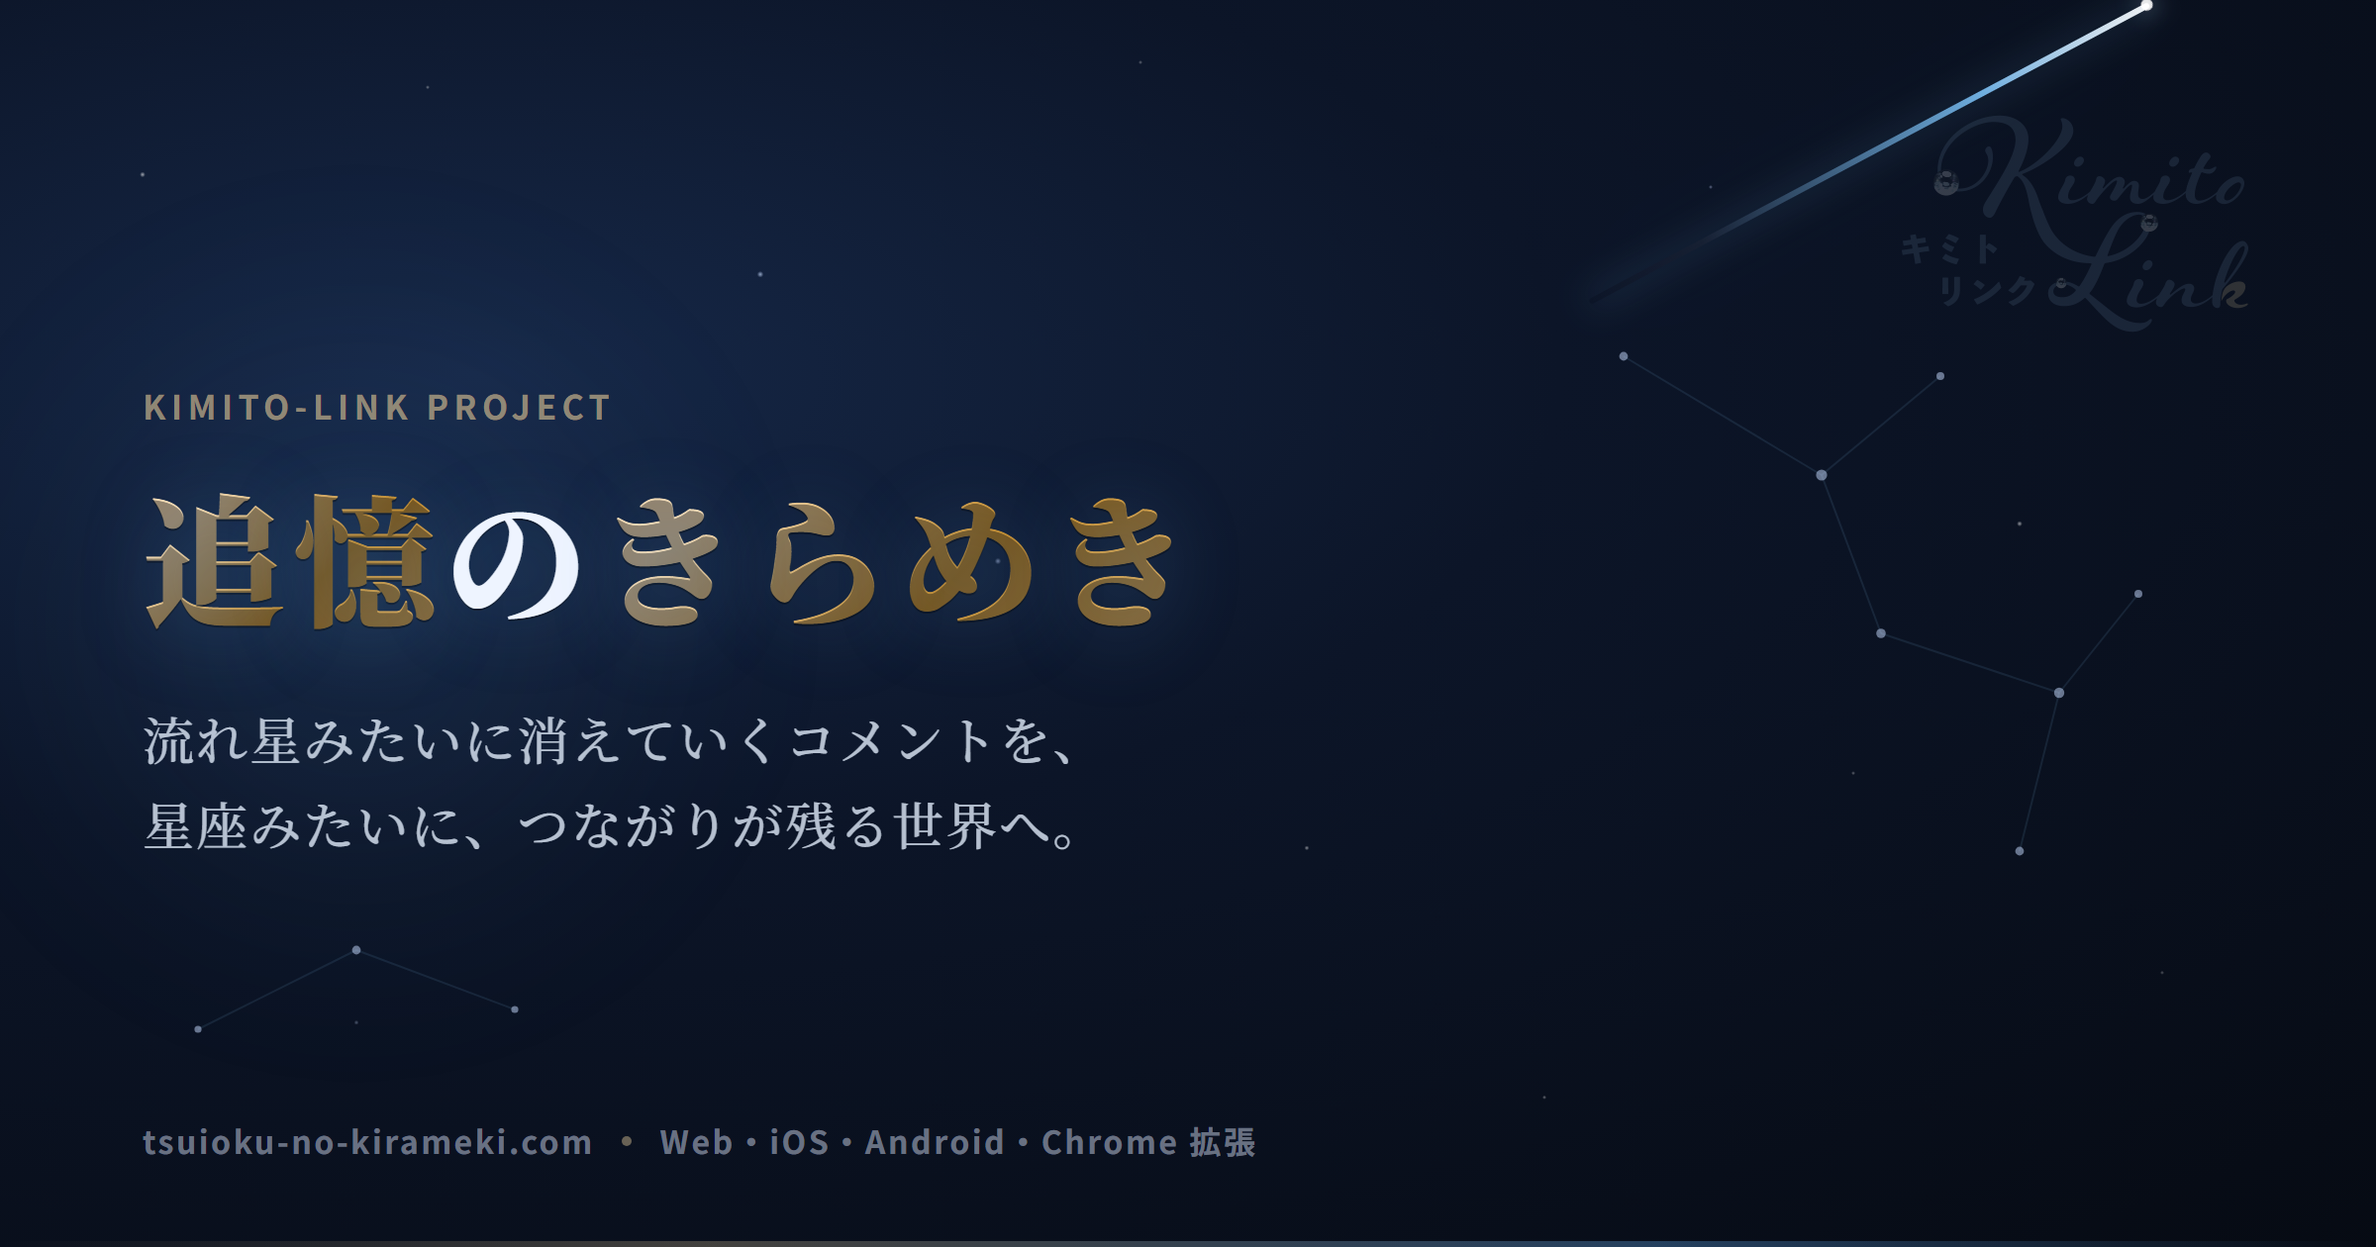
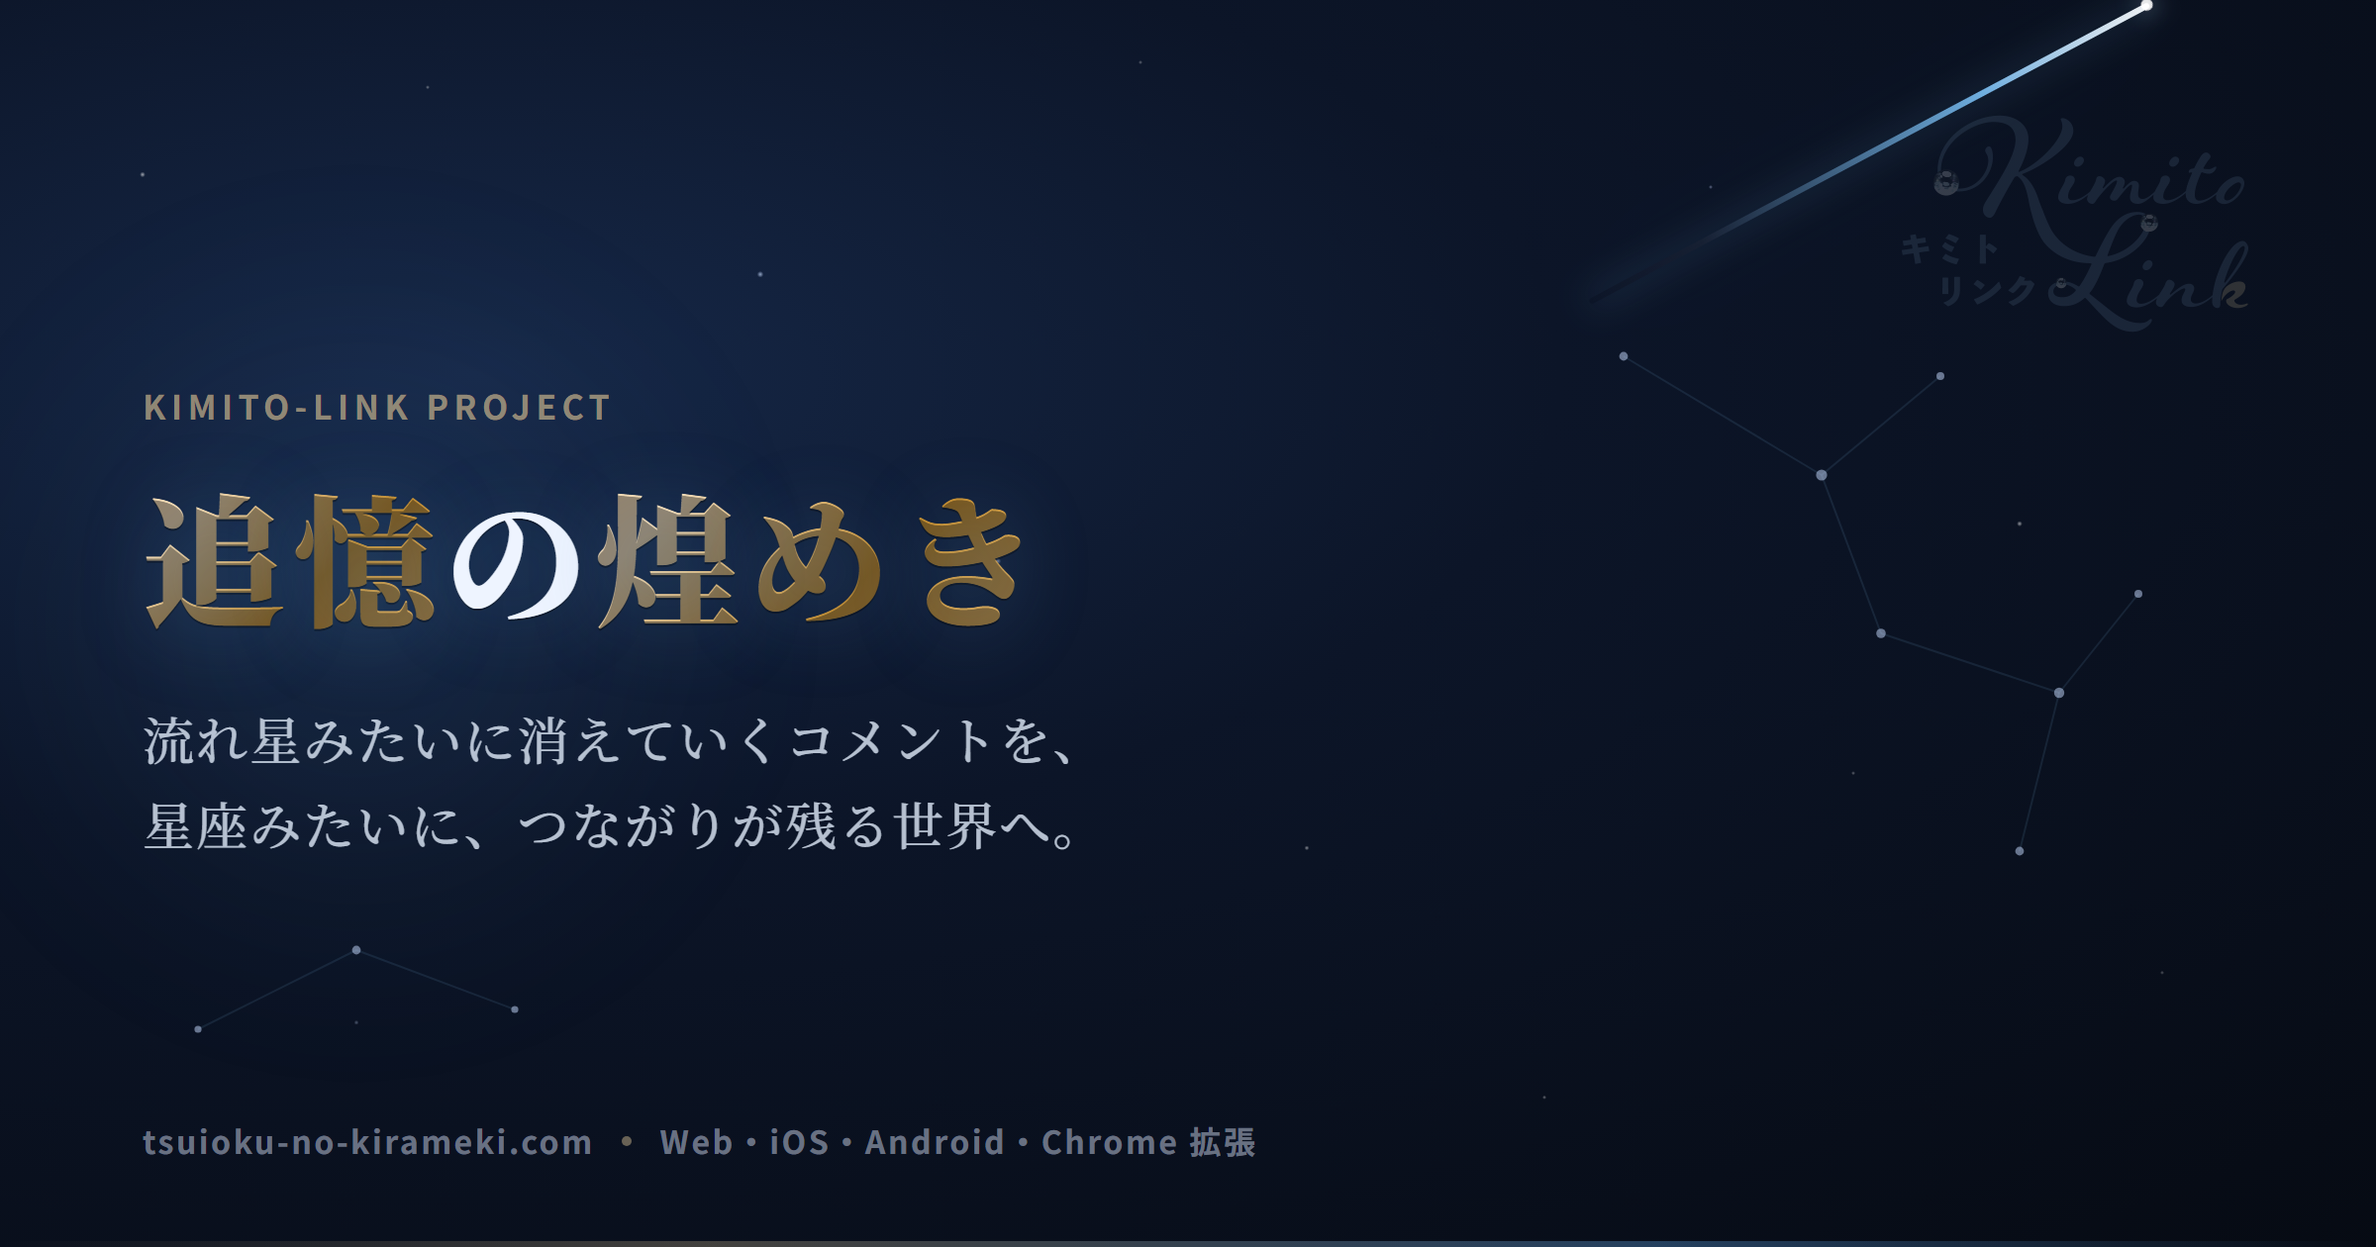
LP表記を「煌めき」に統一（ヒーローはrubyでふりがな）
- メタ・本文・PWA manifest・OG画像生成を追憶の煌めき表記に揃えた

- 拡張のmanifest/popupはChrome表示名のため変更なし

Made-with: Cursor

Changed region(s): [[0.25, 0.4024, 0.5, 0.5262]]

diff --git a/tsuioku-no-kirameki/index.html b/tsuioku-no-kirameki/index.html
@@ -3,7 +3,7 @@
   <head>
     <meta charset="utf-8">
     <meta name="viewport" content="width=device-width, initial-scale=1, viewport-fit=cover">
-    <title>君斗りんくの追憶のきらめき ― Web・iOS・Android と Chrome 拡張を前提に</title>
+    <title>君斗りんくの追憶の煌めき ― Web・iOS・Android と Chrome 拡張を前提に</title>
 
     <link rel="icon" href="images/favicon.ico" sizes="any">
     <link rel="icon" type="image/png" sizes="32x32" href="images/favicon-32.png">
@@ -17,26 +17,26 @@
     <meta name="mobile-web-app-capable" content="yes">
     <meta name="apple-mobile-web-app-capable" content="yes">
     <meta name="apple-mobile-web-app-status-bar-style" content="black-translucent">
-    <meta name="apple-mobile-web-app-title" content="追憶のきらめき">
+    <meta name="apple-mobile-web-app-title" content="追憶の煌めき">
     <link rel="canonical" href="https://tsuioku-no-kirameki.com/">
 
     <meta property="og:type" content="website">
     <meta property="og:url" content="https://tsuioku-no-kirameki.com/">
-    <meta property="og:title" content="君斗りんくの追憶のきらめき ― Web・iOS・Android と Chrome 拡張">
+    <meta property="og:title" content="君斗りんくの追憶の煌めき ― Web・iOS・Android と Chrome 拡張">
     <meta property="og:description" content="流れ星みたいに消えていくコメントを、星座みたいに、つながりが残る世界へ。Web・モバイルを前提に、視聴まわりは Chrome 拡張で応援を手元に残します。YouTube 等への対応も計画中です。">
     <meta property="og:image" content="https://tsuioku-no-kirameki.com/images/og-image.png">
     <meta property="og:image:type" content="image/png">
     <meta property="og:image:width" content="1200">
     <meta property="og:image:height" content="630">
-    <meta property="og:image:alt" content="追憶のきらめき ― 流れ星みたいに消えていくコメントを、星座みたいに、つながりが残る世界へ。">
-    <meta property="og:site_name" content="君斗りんくの追憶のきらめき">
+    <meta property="og:image:alt" content="追憶の煌めき ― 流れ星みたいに消えていくコメントを、星座みたいに、つながりが残る世界へ。">
+    <meta property="og:site_name" content="君斗りんくの追憶の煌めき">
     <meta property="og:locale" content="ja_JP">
 
     <meta name="twitter:card" content="summary_large_image">
-    <meta name="twitter:title" content="君斗りんくの追憶のきらめき ― Web・iOS・Android と Chrome 拡張">
+    <meta name="twitter:title" content="君斗りんくの追憶の煌めき ― Web・iOS・Android と Chrome 拡張">
     <meta name="twitter:description" content="Web・モバイルを前提に、視聴まわりは Chrome 拡張で応援を手元に残します。YouTube 等への対応も計画中です。">
     <meta name="twitter:image" content="https://tsuioku-no-kirameki.com/images/og-image.png">
-    <meta name="twitter:image:alt" content="追憶のきらめき ― 流れ星みたいに消えていくコメントを、星座みたいに、つながりが残る世界へ。">
+    <meta name="twitter:image:alt" content="追憶の煌めき ― 流れ星みたいに消えていくコメントを、星座みたいに、つながりが残る世界へ。">
     <style>
       :root{
         --bg1:#f7f1e7;--bg2:#e8dac4;--paper:rgba(255,251,245,.92);--ink:#2c2117;--muted:#4f4338;
@@ -3205,6 +3205,17 @@
           0 0 8px rgba(200,180,140,.2),
           0 2px 4px rgba(0,0,0,.35)
       }
+      .lp-title-stage__main ruby{
+        ruby-position:over;
+        ruby-align:center
+      }
+      .lp-title-stage__main rt{
+        font-size:.34em;
+        font-weight:500;
+        letter-spacing:.12em;
+        color:rgba(255,236,210,.82);
+        line-height:1.15
+      }
       .lp-title-stage__sparkle{
         position:absolute;
         width:5px;height:5px;border-radius:50%;
@@ -3740,7 +3751,7 @@
 
     <header class="topbar" id="site-header">
       <div class="shell topbar-inner">
-        <a class="topbar__logo" href="#worldview" aria-label="君斗りんくの追憶のきらめき（はじめにへ）">
+        <a class="topbar__logo" href="#worldview" aria-label="君斗りんくの追憶の煌めき（はじめにへ）">
           <img src="../extension/images/logo/kimito-link-color.png" width="160" height="40" alt="Kimito-Link Project（キミトリンク）" loading="eager" decoding="async">
         </a>
         <button type="button" class="topbar__menu-btn" id="topbar-menu-btn" aria-expanded="false" aria-controls="topbar-drawer" aria-haspopup="dialog" aria-label="メニューを開く">
@@ -3772,7 +3783,7 @@
           <a href="#solution" class="cta">解決の方向</a>
         </nav>
       <p class="topbar__drawer-intro">
-        <strong>君斗りんくの追憶のきらめき</strong> — 応援が流れてしまう現実と、「なかったことにしたくない」気持ちに寄り添うページです。Web・iOS・Android と Chrome 拡張を前提に整理しています。見え方や仕組みは、上のリンクから章ごとにたどれます。今後、<strong>YouTube</strong> をはじめとした<strong>他の配信プラットフォーム</strong>への対応も視野に入れています。
+        <strong>君斗りんくの追憶の煌めき</strong> — 応援が流れてしまう現実と、「なかったことにしたくない」気持ちに寄り添うページです。Web・iOS・Android と Chrome 拡張を前提に整理しています。見え方や仕組みは、上のリンクから章ごとにたどれます。今後、<strong>YouTube</strong> をはじめとした<strong>他の配信プラットフォーム</strong>への対応も視野に入れています。
       </p>
     </div>
 
@@ -3804,7 +3815,7 @@
             <h2 id="worldview-heading" class="lp-worldview__heading">届いていたかな、って思ったこと</h2>
             <p class="lp-worldview__kl-eyebrow">キミとつながる、シンセカイの実現へ</p>
 
-            <div class="lp-title-stage" role="img" aria-label="君斗りんくの 追憶のきらめき — 流れ星とコメントが流れるイメージ">
+            <div class="lp-title-stage" role="img" aria-label="君斗りんくの 追憶の煌めき（きらめき）— 流れ星とコメントが流れるイメージ">
               <div class="lp-title-stage__stars" aria-hidden="true"></div>
               <span class="lp-title-stage__shoot" style="top:12%;left:5%;animation-delay:0s" aria-hidden="true"></span>
               <span class="lp-title-stage__shoot lp-title-stage__shoot--warm" style="top:28%;left:62%;animation-delay:1.6s" aria-hidden="true"></span>
@@ -3833,7 +3844,7 @@
               <div class="lp-title-stage__copy">
                 <span class="lp-title-stage__product">君斗りんくの</span>
                 <strong class="lp-title-stage__main" style="position:relative;display:inline-block">
-                  追憶のきらめき
+                  追憶の<ruby>煌めき<rt>きらめき</rt></ruby>
                   <span class="lp-title-stage__sparkle" aria-hidden="true"></span>
                   <span class="lp-title-stage__sparkle" aria-hidden="true"></span>
                   <span class="lp-title-stage__sparkle" aria-hidden="true"></span>
@@ -3967,7 +3978,7 @@
                 </div>
                 <div class="lp-worldview__metaphor-whisper lp-worldview__shower-whisper" role="note" aria-label="コメントと雪の夜・流れ星の比喩">
                   <p class="lp-worldview__metaphor-whisper__line">その一粒一粒が</p>
-                  <p class="lp-worldview__metaphor-whisper__line">まるでまるで、流れ星の一瞬のきらめき</p>
+                  <p class="lp-worldview__metaphor-whisper__line">まるでまるで、流れ星の一瞬の煌めき</p>
                   <p class="lp-worldview__metaphor-whisper__sub">あまりにも早すぎて　積もる前に消えて　捕まえるのが難しい</p>
                 </div>
               </div>
@@ -3990,7 +4001,7 @@
               <p>それが、すごくもったいないと思った。</p>
               <p>だから、つくったんだ。</p>
               <div class="lp-worldview__product-constellation" role="group" aria-label="拡張の名称と約束のことば">
-                <p class="lp-worldview__product">「君斗りんくの追憶のきらめき」</p>
+                <p class="lp-worldview__product">「君斗りんくの追憶の煌めき」</p>
                 <p class="lp-worldview__product-tagline">
                   キミへの思いはもう<br>
                   追憶の彼方に　おきざりにはしないよ
@@ -4234,7 +4245,7 @@
                       <img src="../extension/images/yukkuri-charactore-english/tanunee/tanuki-yukkuri-half-eyes-mouth-open.png" alt="ゆっくりたぬ姉" width="92" height="92" decoding="async">
                       <span>たぬ姉</span>
                     </div>
-                    <div class="bubble">年に一度の奇跡を待つより、毎回の応援を手元で見える化する。ここが「追憶のきらめき」の七夕解釈なのだ。</div>
+                    <div class="bubble">年に一度の奇跡を待つより、毎回の応援を手元で見える化する。ここが「追憶の煌めき」の七夕解釈なのだ。</div>
                   </div>
                 </div>
               </div>
@@ -4672,7 +4683,7 @@
             <h2 id="context-scale-heading">背景としての数字と、ひとことの説明</h2>
             <p>
               冒頭は世界観と語りを優先し、<strong>規模感や製品の輪郭</strong>はここでまとめます。
-              「君斗りんくの追憶のきらめき」は、<strong>Web・iOS・Android を前提にした体験</strong>を見据えつつ、
+              「君斗りんくの追憶の煌めき」は、<strong>Web・iOS・Android を前提にした体験</strong>を見据えつつ、
               まずはデスクトップの視聴ページで、<strong>読まれなかった・呼ばれなかった</strong>あとでも痕跡を手元に静かに残す Chrome 拡張です。
               <strong>YouTube</strong> をはじめとした<strong>他の配信プラットフォーム</strong>への対応も、今後の開発で視野に入れています。競争を煽るためではなく、
               <strong>応援したこと自体の証拠</strong>を失わせないためにあります。
@@ -5357,7 +5368,7 @@
                   </div>
                 </section>
               </div>
-              <p class="lp-mkt-mock-footer">追憶のきらめき · マーケ分析（手元用） — 見本フッタ</p>
+              <p class="lp-mkt-mock-footer">追憶の煌めき · マーケ分析（手元用） — 見本フッタ</p>
             </div>
           </figure>
           <div class="board fade d1 lp-feature-board">
@@ -5687,7 +5698,7 @@
 
           <div class="board fade d1">
             <h3>配信コメント特有の心理メカニズム</h3>
-            <p>君斗りんくの追憶のきらめきの刺さりどころは、反応の量を増やすことではなく、「証拠の不在」を埋めることです。</p>
+            <p>君斗りんくの追憶の煌めきの刺さりどころは、反応の量を増やすことではなく、「証拠の不在」を埋めることです。</p>
             <div class="comment-flow">
               <div class="flow-card violet"><h4>1. コメントする</h4><p>流れ星に願いをのせるみたいに、ひとことを打ち込む。その瞬間には、ちゃんと応援として放っている。</p></div>
               <div class="flow-card slate"><h4>2. 画面を流れる</h4><p>リアルタイム性が高く、すぐに過去へ流れていく。</p></div>
@@ -5709,7 +5720,7 @@
                 <div class="bubble">SNSは「消すかどうか」が苦しいけれど、配信コメントは<strong>最初から残らないこと自体</strong>が虚しいのだ。<strong>りんく</strong>へのコメントも、流れたら手元に痕跡がないのだ。</div>
               </div>
               <div class="y-row reverse">
-                <div class="bubble">だから「君斗りんくの追憶のきらめき」は、反応を増やすより先に、<strong>ファン側の応援の証拠を消えにくくする</strong>方向へ振っているのだ。配信する<strong>りんく</strong>も、返せない罪悪感とファンの寂しさのあいだを、記録で少し楽にしたいのだ。</div>
+                <div class="bubble">だから「君斗りんくの追憶の煌めき」は、反応を増やすより先に、<strong>ファン側の応援の証拠を消えにくくする</strong>方向へ振っているのだ。配信する<strong>りんく</strong>も、返せない罪悪感とファンの寂しさのあいだを、記録で少し楽にしたいのだ。</div>
                 <div class="speaker"><img src="../extension/images/yukkuri-charactore-english/link/link-yukkuri-normal-mouth-open.png" alt="ゆっくりりんく（配信者）"><span>ゆっくりりんく</span></div>
               </div>
             </div>
@@ -6093,7 +6104,7 @@
             <h2>「推定同時接続」は、どうやって計算しているの？</h2>
             <p>
               ニコ生には同時接続 API がありません。配信ページが表示する数字は累計来場者数（watchCount）です。
-              君斗りんくの追憶のきらめきは、コメントと来場者の情報から独自に推定しています。
+              君斗りんくの追憶の煌めきは、コメントと来場者の情報から独自に推定しています。
             </p>
           </div>
 
@@ -6271,7 +6282,7 @@
       <section class="section" id="solution">
         <div class="shell">
           <div class="section-head fade">
-            <h2>君斗りんくの追憶のきらめきが断ち切りたいのは、この左側のループです。</h2>
+            <h2>君斗りんくの追憶の煌めきが断ち切りたいのは、この左側のループです。</h2>
             <p>
               競争をもっと強くするのではなく、応援の痕跡を個人の手元に戻す。その設計にすると、
               反応が少ない日の推し活も「無価値」ではなくなります。
@@ -6404,7 +6415,7 @@
     </main>
 
     <footer class="footer-note">
-      <div class="shell">追憶のきらめき v0.1.0 ― Kimito-Link Project</div>
+      <div class="shell">追憶の煌めき v0.1.0 ― Kimito-Link Project</div>
     </footer>
 
     <button type="button" id="lp-bgm-toggle" aria-label="BGMを再生">&#9835;</button>

diff --git a/tools/render-og.js b/tools/render-og.js
@@ -1,5 +1,5 @@
 /**
- * 追憶のきらめき LP 用 OG 画像（1200×630）を生成する。
+ * 追憶の煌めき LP 用 OG 画像（1200×630）を生成する。
  * 実行: node tools/render-og.js
  */
 'use strict';
@@ -234,7 +234,7 @@ body::before {
   <div class="content">
     <div class="eyebrow">Kimito-Link Project</div>
     <h1 class="title">
-      <span class="accent">追憶</span>の<span class="accent">きらめき</span>
+      <span class="accent">追憶</span>の<span class="accent">煌めき</span>
     </h1>
     <p class="tagline">
       流れ星みたいに消えていくコメントを、<br>
